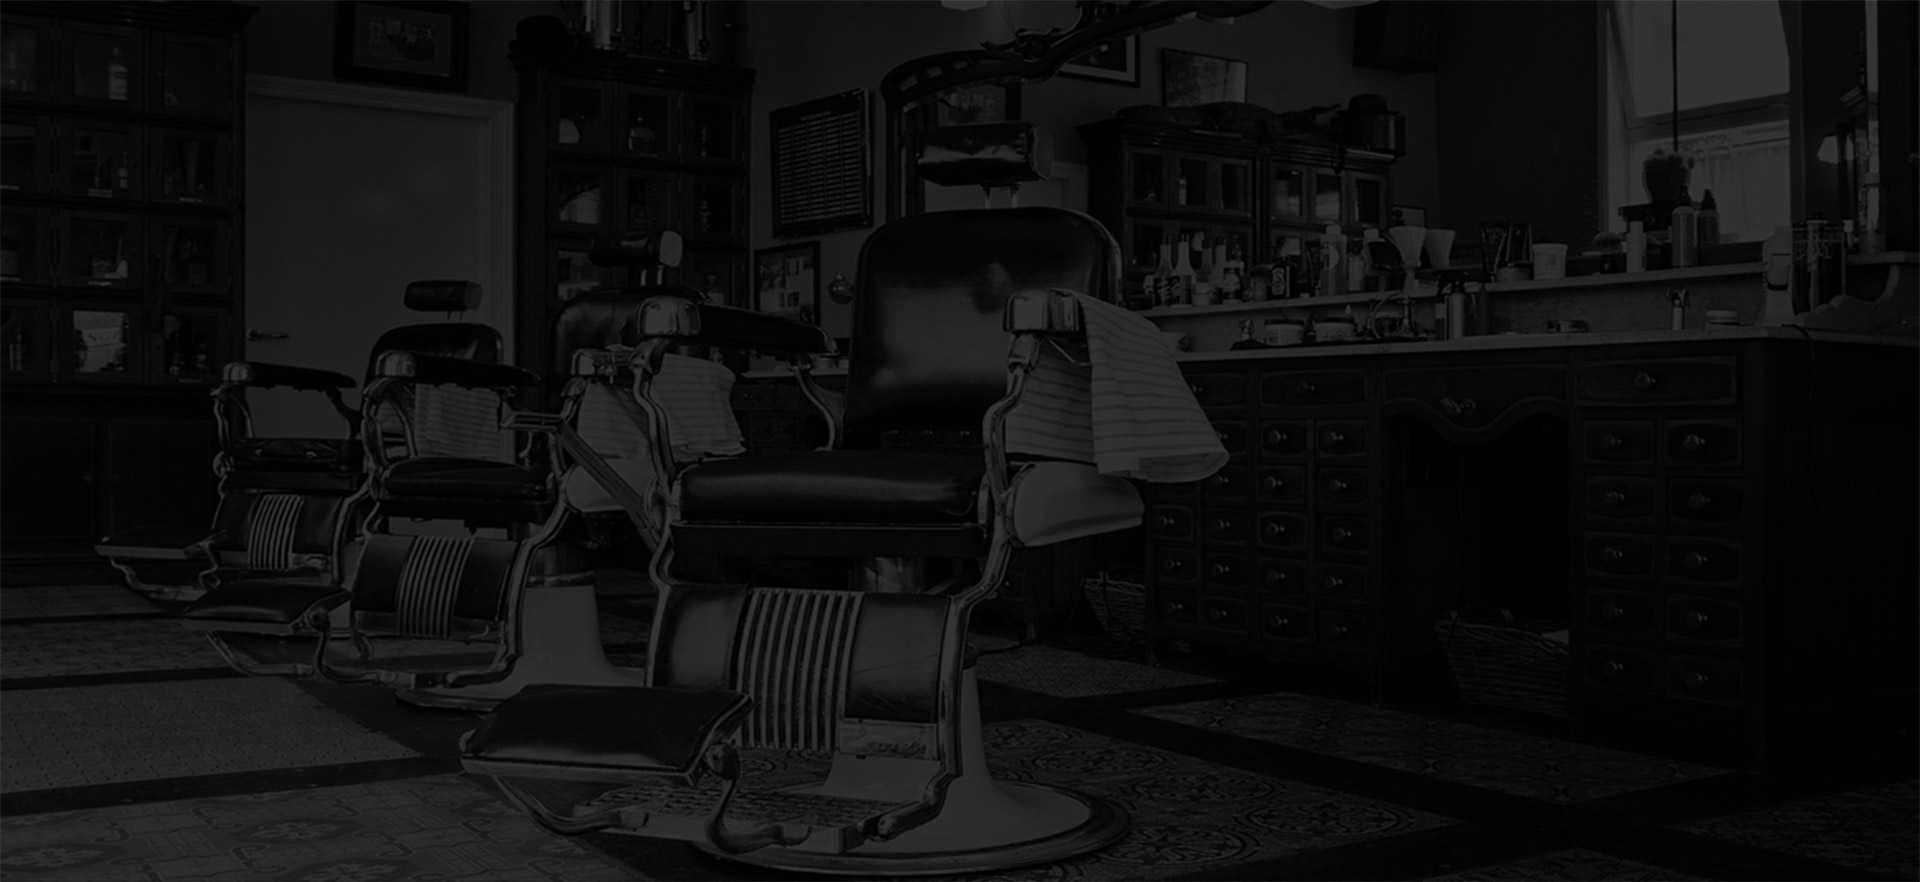
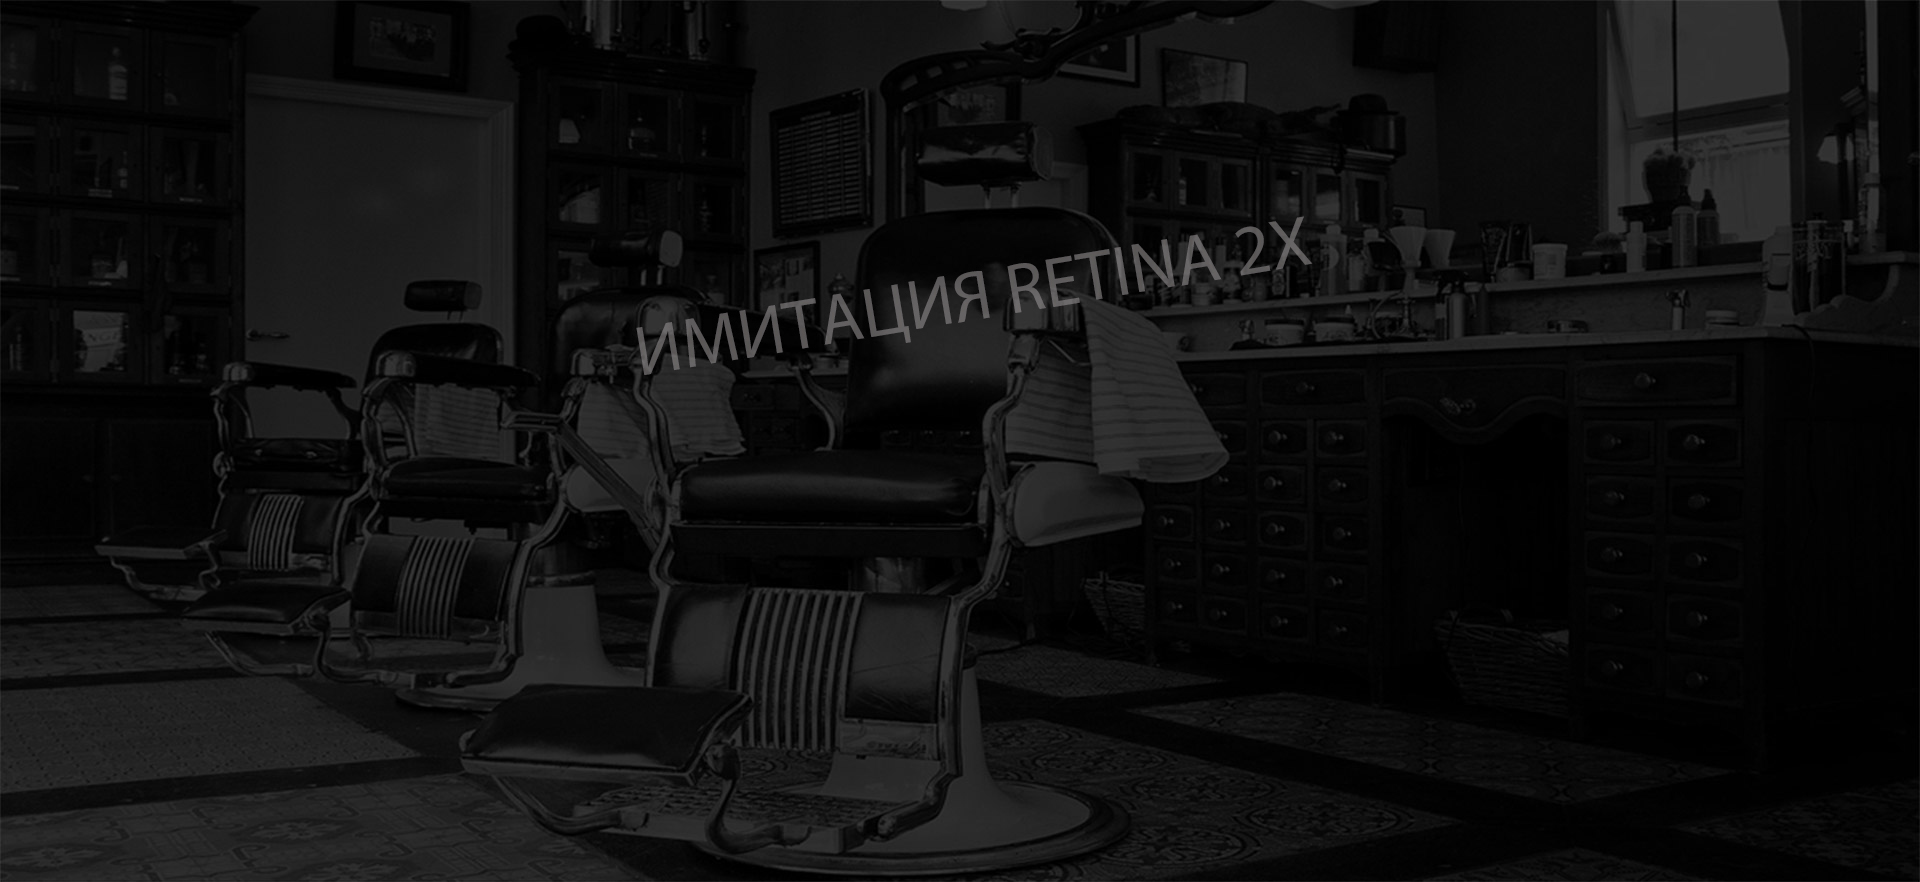
Добавил адаптивный логотип и ретинизированный фон

Changed region(s): [[0.3125, 0.2449, 0.6875, 0.4286]]

diff --git a/index.html b/index.html
@@ -8,14 +8,20 @@
     <meta name="format-detection" content="telephone=no">
     <link rel="stylesheet" href="css/style.css">
     <link rel="stylesheet" href="css/normalize.css">
-</head> 
+</head>
 
 <body>
 
-    <header class="page-header"> 
+    <header class="page-header">
         <a class="page-header__logo">
-            <img class="page-header__logo-image" src="img/logotype-mobile.svg" width="226" height="30" alt="Барбершоп «Бородинский»">
-          </a>
+            <picture>
+                <source media="(min-width: 1200px)" srcset="img/logotype-desktop.svg">
+                <source media="(min-width: 768px)" srcset="img/logotype-tablet.svg">
+                <img class="page-header__logo-image" src="img/logotype-mobile.svg" width="226" height="30"
+                    alt="Барбершоп «Бородинский»">
+                    
+            </picture>
+        </a>
         <nav class="main-nav main-nav--closed main-nav--nojs">
             <button class="main-nav__toggle" type="button"><span class="visually-hidden">Открыть меню</span></button>
             <div class="main-nav__wrapper">
@@ -39,9 +45,10 @@
                 <ul class="main-nav__list user-list">
                     <li class="user-list__item">
                         <a class="user-list__login" href="login.html">
-                            <svg class="user-list__login-icon" width="16" height="16" xmlns="http://www.w3.org/2000/svg" viewBox="0 0 16 16">
-                                <polygon points="0,7 7.01,7 7.01,4.06 10.96,8.01 7.01,11.91 7.01,9.06 0,9.02 "/>
-                                <polygon points="7.01,0 7.01,2 14.03,2 14.03,13.99 7.01,13.99 7.01,16 16,16 16,0 "/>
+                            <svg class="user-list__login-icon" width="16" height="16" xmlns="http://www.w3.org/2000/svg"
+                                viewBox="0 0 16 16">
+                                <polygon points="0,7 7.01,7 7.01,4.06 10.96,8.01 7.01,11.91 7.01,9.06 0,9.02 " />
+                                <polygon points="7.01,0 7.01,2 14.03,2 14.03,13.99 7.01,13.99 7.01,16 16,16 16,0 " />
                             </svg>
                             Войти
                         </a>
@@ -241,11 +248,11 @@
     <script>
         let navMain = document.querySelector('.main-nav');
         let navToggle = document.querySelector('.main-nav__toggle');
-        
+
         navMain.classList.remove('main-nav--nojs');
 
         navToggle.addEventListener('click', () => {
-            if ( navMain.classList.contains('main-nav--closed') ) {
+            if (navMain.classList.contains('main-nav--closed')) {
                 navMain.classList.remove('main-nav--closed');
                 navMain.classList.add('main-nav--opened');
             } else {
